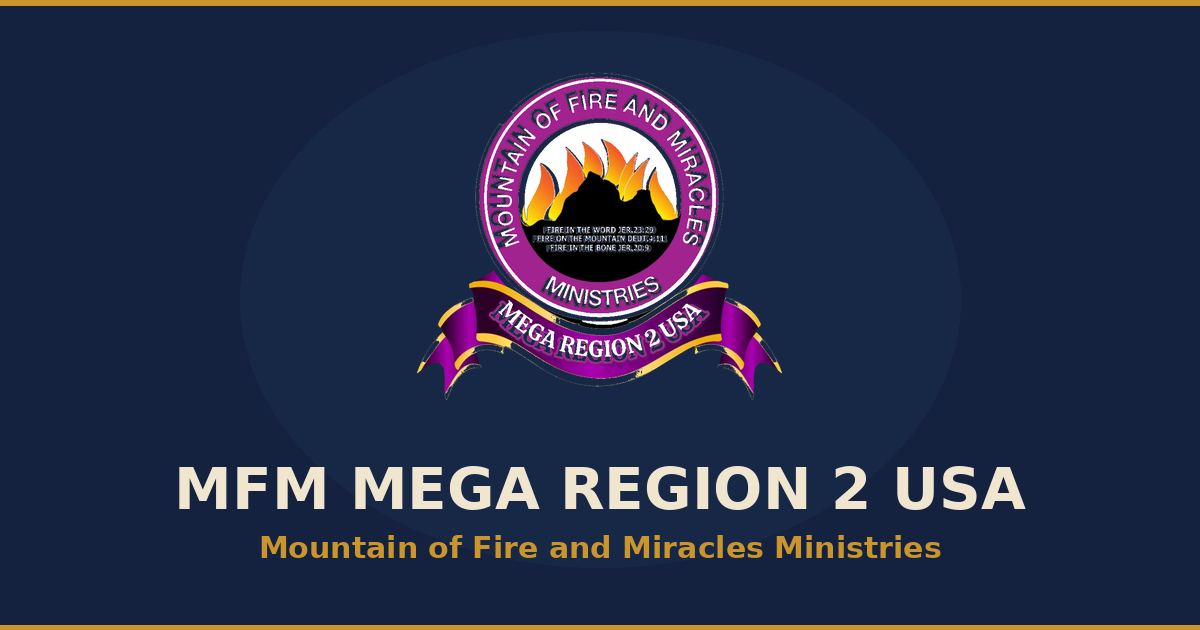
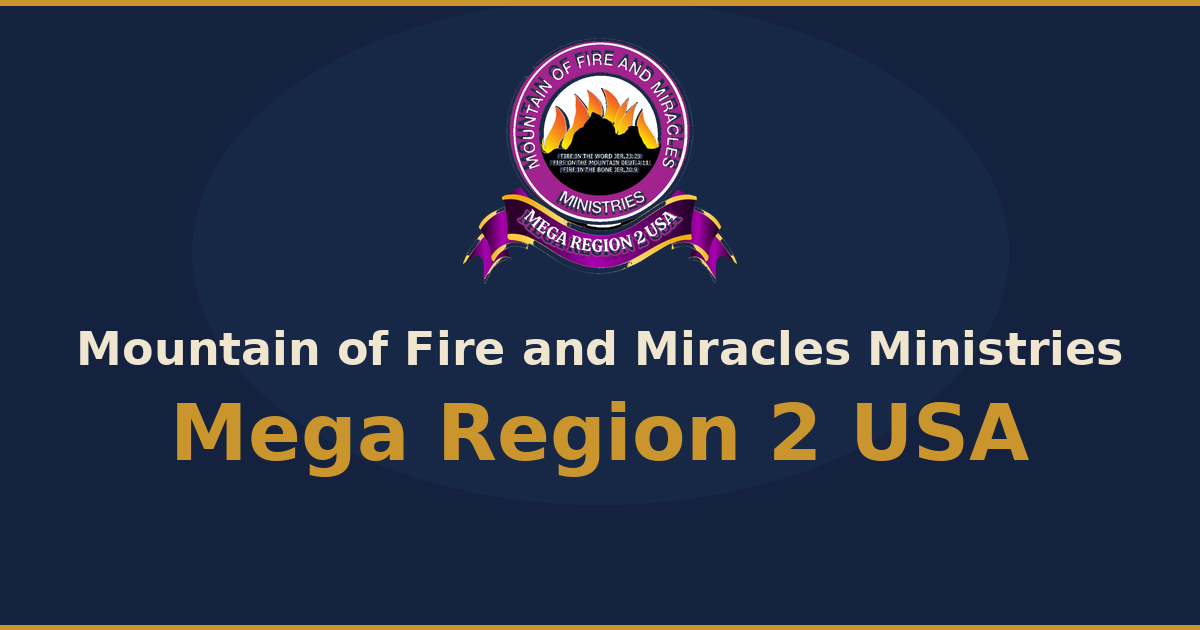
Redesign social card + fix PMCH vs Weekend Deliverance schedule
Social card / title:
- New 1200x630 card: "Mountain of Fire and Miracles Ministries" (large)
  over "Mega Region 2 USA" (large) — drops the redundant "MFM" repeat.
- De-duplicate the page title, og:title, twitter:title and og:image:alt.

Schedule:
- Countdown now shows Power Must Change Hands on the 1st Saturday and
  skips ALL Weekend Deliverance (Fri/Sat/Sun) that first weekend; Weekend
  Deliverance runs every other weekend. Applied to both hero + sidebar.
- Updated Weekend Deliverance wording on home + events pages.

Changed region(s): [[0.0617, 0.0603, 0.9558, 0.8143], [0.2158, 0.8444, 0.8017, 0.9048]]

diff --git a/index.html b/index.html
@@ -5,14 +5,14 @@
   <meta name="viewport" content="width=device-width, initial-scale=1.0">
 
   <!-- PAGE TITLE -->
-  <title>MFM Mega Region 2 USA — Mountain of Fire and Miracles Ministries</title>
+  <title>Mountain of Fire and Miracles Ministries — Mega Region 2 USA</title>
 
   <!-- SEO Meta -->
   <meta name="description" content="Mountain of Fire and Miracles Ministries, Mega Region 2 USA. A ministry devoted to the revival of apostolic signs, wonders and miracles. Join us for prayer, healing, and breakthrough.">
   <meta name="theme-color" content="#142240">
 
   <!-- Open Graph -->
-  <meta property="og:title" content="MFM Mega Region 2 USA — Mountain of Fire and Miracles Ministries">
+  <meta property="og:title" content="Mountain of Fire and Miracles Ministries — Mega Region 2 USA">
   <meta property="og:description" content="A full gospel ministry devoted to the Revival of Apostolic Signs, Holy Ghost fireworks, and the unlimited demonstration of the power of God to deliver to the uttermost.">
   <meta property="og:type" content="website">
 
@@ -1382,9 +1382,9 @@
   <meta property="og:image" content="https://mfmmegaregion2usa.org/img/og-image.png">
   <meta property="og:image:width" content="1200">
   <meta property="og:image:height" content="630">
-  <meta property="og:image:alt" content="MFM Mega Region 2 USA — Mountain of Fire and Miracles Ministries">
+  <meta property="og:image:alt" content="Mountain of Fire and Miracles Ministries — Mega Region 2 USA">
   <meta name="twitter:card" content="summary_large_image">
-  <meta name="twitter:title" content="MFM Mega Region 2 USA — Mountain of Fire and Miracles Ministries">
+  <meta name="twitter:title" content="Mountain of Fire and Miracles Ministries — Mega Region 2 USA">
   <meta name="twitter:description" content="Mountain of Fire and Miracles Ministries, Mega Region 2 USA. A ministry devoted to the revival of apostolic signs, wonders and miracles. Join us for prayer, healing, and breakthrough.">
   <meta name="twitter:image" content="https://mfmmegaregion2usa.org/img/og-image.png">
 </head>
@@ -1859,10 +1859,10 @@
             <img src="img/announcements/weekend-deliverance.jpg" alt="Weekend Deliverance at Prayer City">
           </div>
           <div class="prog-details">
-            <div class="prog-day prog-day--dim">Every Weekend</div>
+            <div class="prog-day prog-day--dim">Most Weekends</div>
             <h3>Weekend Deliverance</h3>
             <p class="prog-time">Friday – Sunday · In Person</p>
-            <p class="prog-desc">Intensive deliverance services at MFM USA Prayer City in Houston. Come in person for powerful sessions of prayer, warfare, and total deliverance from every bondage.</p>
+            <p class="prog-desc">Intensive deliverance services at MFM USA Prayer City in Houston. Come in person for powerful sessions of prayer, warfare, and total deliverance from every bondage. Held every weekend except the first weekend of the month, when Power Must Change Hands takes place.</p>
             <div class="prog-countdown" data-prog-cd="2"></div>
             <div>
               <a href="events.html#deliverance" class="prog-cta">
@@ -2198,12 +2198,7 @@
        Hero Countdown — ticks into hcd- elements
        ══════════════════════════════════════════════════════════ */
     (function () {
-      var programs = [
-        { day: 2, hour: 19, min: 0, name: 'Healing & Deliverance Hour', label: 'Tuesday · 7:00 PM CT', online: true },
-        { day: 4, hour: 18, min: 0, name: 'Open Heaven Encounter', label: 'Thursday · 6:00 PM CST', online: true },
-        { day: 5, hour: 19, min: 0, name: 'Weekly Deliverance', label: 'Friday · 7:00 PM CT', online: false },
-        { day: 6, hour: 8,  min: 0, name: 'Weekly Deliverance', label: 'Saturday · 8:00 AM CT', online: false }
-      ];
+      // Weekly schedule is computed in getNext() — PMCH (1st Saturday) replaces Weekend Deliverance that weekend.
       var eP = document.getElementById('hcdProgram');
       var eD = document.getElementById('hcdDay');
       var eDy = document.getElementById('hcdDays');
@@ -2213,16 +2208,28 @@
       if (!eP) return;
 
       function getNext() {
-        var now = new Date(), best = null, bd = Infinity;
-        for (var w = 0; w < 2; w++) {
-          for (var i = 0; i < programs.length; i++) {
-            var p = programs[i], t = new Date(now);
-            var da = (p.day - now.getDay() + 7) % 7 + (w * 7);
-            if (da === 0 && (now.getHours() > p.hour || (now.getHours() === p.hour && now.getMinutes() >= p.min))) da = 7;
-            t.setDate(now.getDate() + da);
-            t.setHours(p.hour, p.min, 0, 0);
-            var d = t - now;
-            if (d > 0 && d < bd) { bd = d; best = { program: p, target: t }; }
+        var now = new Date();
+        function firstSat(y, m) { var f = new Date(y, m, 1); return 1 + ((6 - f.getDay() + 7) % 7); }
+        var best = null, bd = Infinity;
+        for (var i = 0; i < 14; i++) {
+          var dt = new Date(now.getFullYear(), now.getMonth(), now.getDate() + i);
+          var y = dt.getFullYear(), m = dt.getMonth(), date = dt.getDate(), dow = dt.getDay();
+          var svc = null;
+          if (dow === 2) svc = { name: 'Healing & Deliverance Hour', label: 'Tuesday · 7:00 PM CT', h: 19, mi: 0, online: true };
+          else if (dow === 4) svc = { name: 'Open Heaven Encounter', label: 'Thursday · 6:00 PM CST', h: 18, mi: 0, online: true };
+          else if (dow === 6) {
+            svc = (date === firstSat(y, m))
+              ? { name: 'Power Must Change Hands', label: '1st Saturday · 8:00 AM CT', h: 8, mi: 0, online: false }
+              : { name: 'Weekend Deliverance', label: 'Saturday · 8:00 AM CT', h: 8, mi: 0, online: false };
+          } else if (dow === 5) {
+            var sat = new Date(y, m, date + 1);
+            if (sat.getDate() !== firstSat(sat.getFullYear(), sat.getMonth()))
+              svc = { name: 'Weekend Deliverance', label: 'Friday · 7:00 PM CT', h: 19, mi: 0, online: false };
+          }
+          if (svc) {
+            var t = new Date(y, m, date, svc.h, svc.mi, 0, 0);
+            var diff = t - now;
+            if (diff > 0 && diff < bd) { bd = diff; best = { program: { name: svc.name, label: svc.label, online: svc.online }, target: t }; }
           }
         }
         return best;
@@ -2257,12 +2264,7 @@
        Next Service Countdown Timer
        ══════════════════════════════════════════════════════════ */
     (function () {
-      var programs = [
-        { day: 2, hour: 19, min: 0, name: 'Healing & Deliverance Hour', label: 'Tuesday · 7:00 PM CT', online: true },
-        { day: 4, hour: 18, min: 0, name: 'Open Heaven Encounter', label: 'Thursday · 6:00 PM CST', online: true },
-        { day: 5, hour: 19, min: 0, name: 'Weekly Deliverance', label: 'Friday · 7:00 PM CT', online: false },
-        { day: 6, hour: 8,  min: 0, name: 'Weekly Deliverance', label: 'Saturday · 8:00 AM CT', online: false }
-      ];
+      // Weekly schedule is computed in getNext() — PMCH (1st Saturday) replaces Weekend Deliverance that weekend.
 
       var elProg = document.getElementById('cdProgram');
       var elDay = document.getElementById('cdDay');
@@ -2274,26 +2276,27 @@
 
       function getNext() {
         var now = new Date();
-        var best = null;
-        var bestDiff = Infinity;
-
-        for (var w = 0; w < 2; w++) {
-          for (var i = 0; i < programs.length; i++) {
-            var p = programs[i];
-            var target = new Date(now);
-            var daysAhead = (p.day - now.getDay() + 7) % 7 + (w * 7);
-            if (daysAhead === 0 && (now.getHours() > p.hour || (now.getHours() === p.hour && now.getMinutes() >= p.min))) {
-              daysAhead = 7 * (w === 0 ? 1 : 1);
-              if (w > 0) continue;
-              daysAhead = 7;
-            }
-            target.setDate(now.getDate() + daysAhead);
-            target.setHours(p.hour, p.min, 0, 0);
-            var diff = target - now;
-            if (diff > 0 && diff < bestDiff) {
-              bestDiff = diff;
-              best = { program: p, target: target, diff: diff };
-            }
+        function firstSat(y, m) { var f = new Date(y, m, 1); return 1 + ((6 - f.getDay() + 7) % 7); }
+        var best = null, bd = Infinity;
+        for (var i = 0; i < 14; i++) {
+          var dt = new Date(now.getFullYear(), now.getMonth(), now.getDate() + i);
+          var y = dt.getFullYear(), m = dt.getMonth(), date = dt.getDate(), dow = dt.getDay();
+          var svc = null;
+          if (dow === 2) svc = { name: 'Healing & Deliverance Hour', label: 'Tuesday · 7:00 PM CT', h: 19, mi: 0, online: true };
+          else if (dow === 4) svc = { name: 'Open Heaven Encounter', label: 'Thursday · 6:00 PM CST', h: 18, mi: 0, online: true };
+          else if (dow === 6) {
+            svc = (date === firstSat(y, m))
+              ? { name: 'Power Must Change Hands', label: '1st Saturday · 8:00 AM CT', h: 8, mi: 0, online: false }
+              : { name: 'Weekend Deliverance', label: 'Saturday · 8:00 AM CT', h: 8, mi: 0, online: false };
+          } else if (dow === 5) {
+            var sat = new Date(y, m, date + 1);
+            if (sat.getDate() !== firstSat(sat.getFullYear(), sat.getMonth()))
+              svc = { name: 'Weekend Deliverance', label: 'Friday · 7:00 PM CT', h: 19, mi: 0, online: false };
+          }
+          if (svc) {
+            var t = new Date(y, m, date, svc.h, svc.mi, 0, 0);
+            var diff = t - now;
+            if (diff > 0 && diff < bd) { bd = diff; best = { program: { name: svc.name, label: svc.label, online: svc.online }, target: t }; }
           }
         }
         return best;

diff --git a/events.html b/events.html
@@ -829,9 +829,9 @@
         <div class="weekly-program reveal" id="deliverance">
           <img class="weekly-program-img" src="img/announcements/weekend-deliverance.jpg" alt="Weekend Deliverance at Prayer City — Friday through Sunday">
           <div class="weekly-program-body">
-            <span class="badge badge--fire" style="margin-bottom:14px;">Every Weekend</span>
+            <span class="badge badge--fire" style="margin-bottom:14px;">Most Weekends</span>
             <h3>Weekend Deliverance at Prayer City</h3>
-            <p class="program-desc">Three days of focused deliverance ministry every week at MFM USA Prayer City — sustained spiritual warfare, the breaking of yokes, and the demonstration of God's delivering power.</p>
+            <p class="program-desc">Three days of focused deliverance ministry at MFM USA Prayer City — sustained spiritual warfare, the breaking of yokes, and the demonstration of God's delivering power. Held every weekend except the first weekend of the month, when Power Must Change Hands takes place.</p>
             <ul class="weekly-program-schedule">
               <li>🔥 Fri: 7:00 PM – 12:00 AM CT</li>
               <li>🔥 Sat: 9:00 AM – 2:00 PM CT</li>
